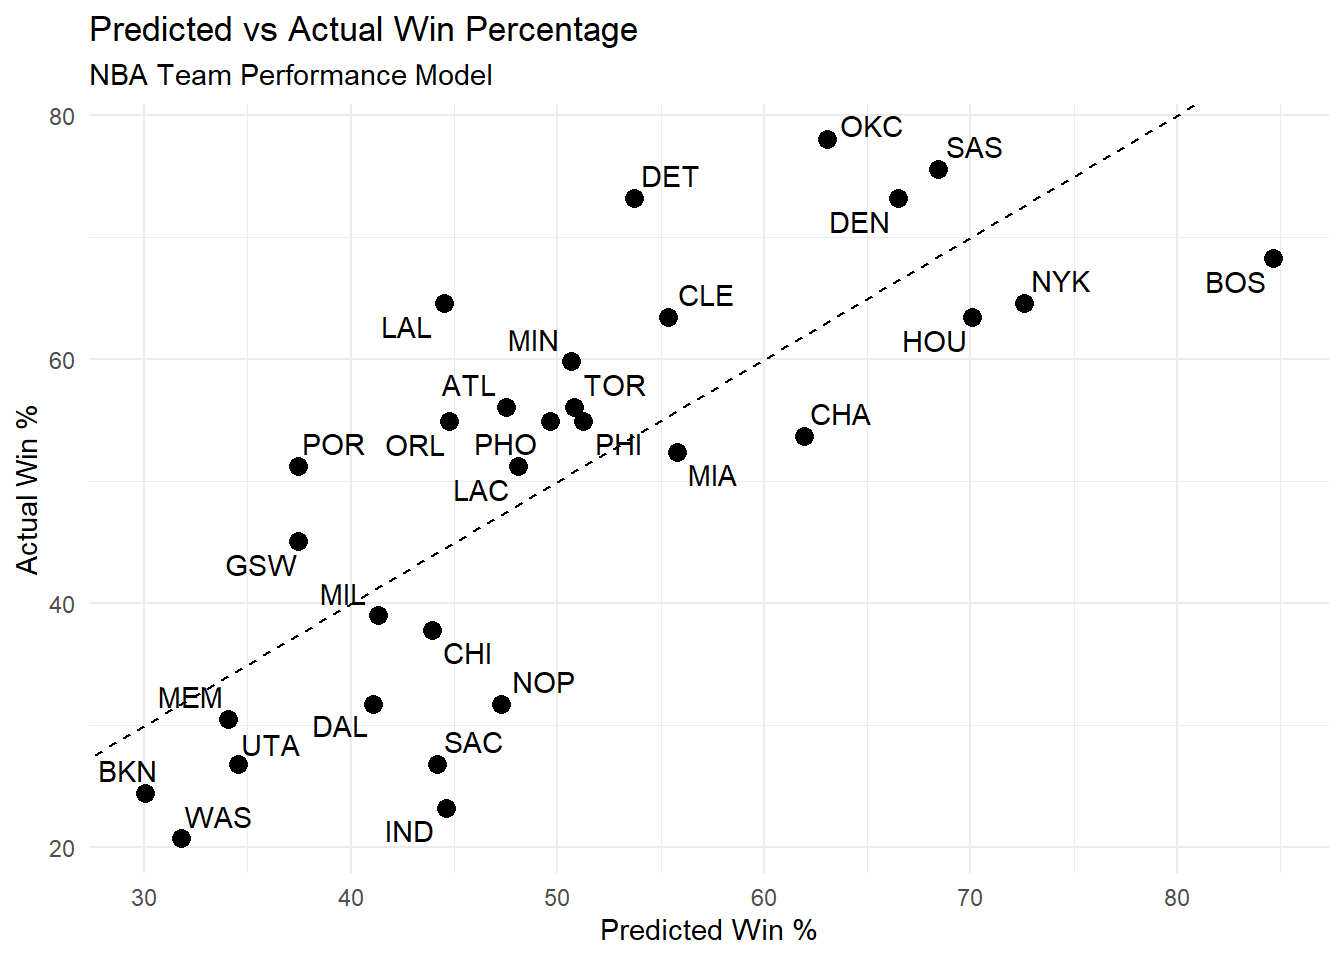
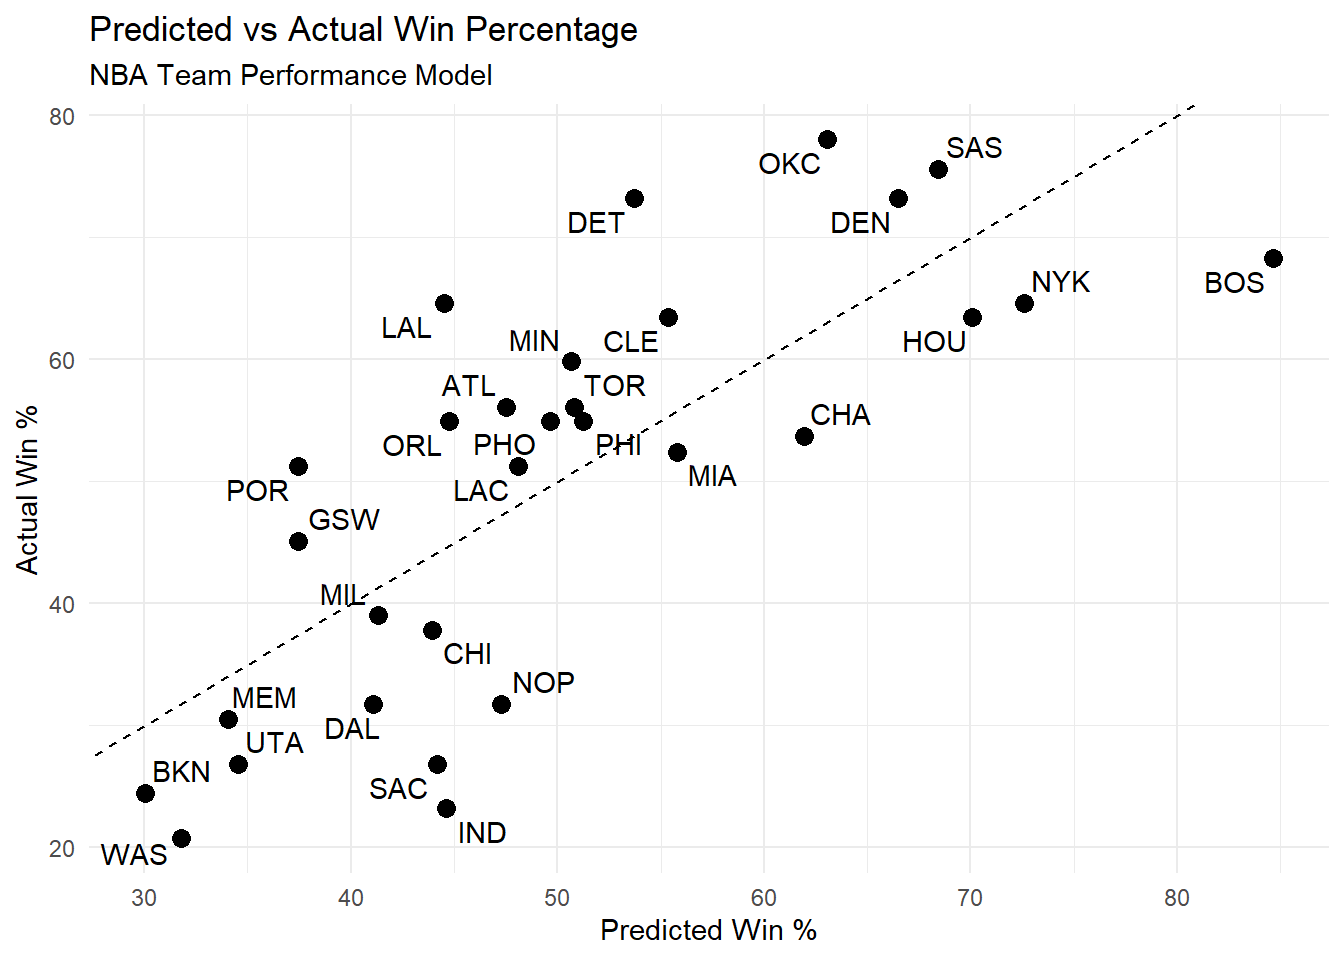
Added photo

diff --git a/docs/about.html b/docs/about.html
@@ -123,9 +123,7 @@ ul.task-list li input[type="checkbox"] {
     <h2 id="toc-title">On this page</h2>
    
   <ul>
-  <li><a href="#college-basketball-report" id="toc-college-basketball-report" class="nav-link active" data-scroll-target="#college-basketball-report">College Basketball Report</a></li>
-  <li><a href="#the-stack" id="toc-the-stack" class="nav-link" data-scroll-target="#the-stack">The Stack</a></li>
-  <li><a href="#the-author" id="toc-the-author" class="nav-link" data-scroll-target="#the-author">The Author</a></li>
+  <li><a href="#the-stack" id="toc-the-stack" class="nav-link active" data-scroll-target="#the-stack">The Stack</a></li>
   </ul>
 </nav>
     </div>
@@ -152,22 +150,56 @@ ul.task-list li input[type="checkbox"] {
 </header>
 
 
-<section id="college-basketball-report" class="level2">
-<h2 class="anchored" data-anchor-id="college-basketball-report">College Basketball Report</h2>
-<p>This site is a personal data journalism project focused on college and professional basketball. Every post is built from raw game-by-game data — no box-score summaries, no recycled narratives. Just the data, visualized and interpreted.</p>
-</section>
+<div style="display: flex; align-items: flex-start; gap: 2rem; margin-bottom: 2rem; flex-wrap: wrap;">
+  <img src="images/WIN_20260615_07_20_16_Pro.jpg" alt="Author photo" style="width: 200px; height: 200px; object-fit: cover; border-radius: 50%;
+           border: 4px solid #e8a020; box-shadow: 0 4px 18px rgba(10,22,40,0.18);
+           flex-shrink: 0;">
+  <div style="flex: 1; min-width: 220px;">
+    <h2 style="margin-top: 0;" class="anchored">College Basketball Report</h2>
+    <p>
+      This site is a personal data journalism project focused on college and
+      professional basketball. Every post is built from raw game-by-game data —
+      no box-score summaries, no recycled narratives. Just the data, visualized
+      and interpreted.
+    </p>
+    <p>
+      A basketball fan who believes the best stories in sports are hiding in the
+      data. Built this site to share those stories publicly.
+    </p>
+  </div>
+</div>
 <section id="the-stack" class="level2">
 <h2 class="anchored" data-anchor-id="the-stack">The Stack</h2>
-<ul>
-<li><strong>R</strong> — data ingestion, wrangling, and visualization (<code>tidyverse</code>, <code>ggplot2</code>)</li>
-<li><strong>Quarto</strong> — rendering and publishing</li>
-<li><strong>GitHub Pages</strong> — hosting</li>
-<li><strong>ESPN API</strong> — game-by-game data source</li>
-</ul>
-</section>
-<section id="the-author" class="level2">
-<h2 class="anchored" data-anchor-id="the-author">The Author</h2>
-<p>A basketball fan who believes the best stories in sports are hiding in the data. Built this site to share those stories publicly.</p>
+<table class="caption-top table">
+<colgroup>
+<col style="width: 50%">
+<col style="width: 50%">
+</colgroup>
+<thead>
+<tr class="header">
+<th>Tool</th>
+<th>Purpose</th>
+</tr>
+</thead>
+<tbody>
+<tr class="odd">
+<td><strong>R</strong></td>
+<td>Data ingestion, wrangling, and visualization (<code>tidyverse</code>, <code>ggplot2</code>)</td>
+</tr>
+<tr class="even">
+<td><strong>Quarto</strong></td>
+<td>Rendering and publishing</td>
+</tr>
+<tr class="odd">
+<td><strong>GitHub Pages</strong></td>
+<td>Hosting</td>
+</tr>
+<tr class="even">
+<td><strong>ESPN API</strong></td>
+<td>Game-by-game data source</td>
+</tr>
+</tbody>
+</table>
 <hr>
 <blockquote class="blockquote">
 <p>Questions, feedback, or data requests? Reach out on GitHub.</p>